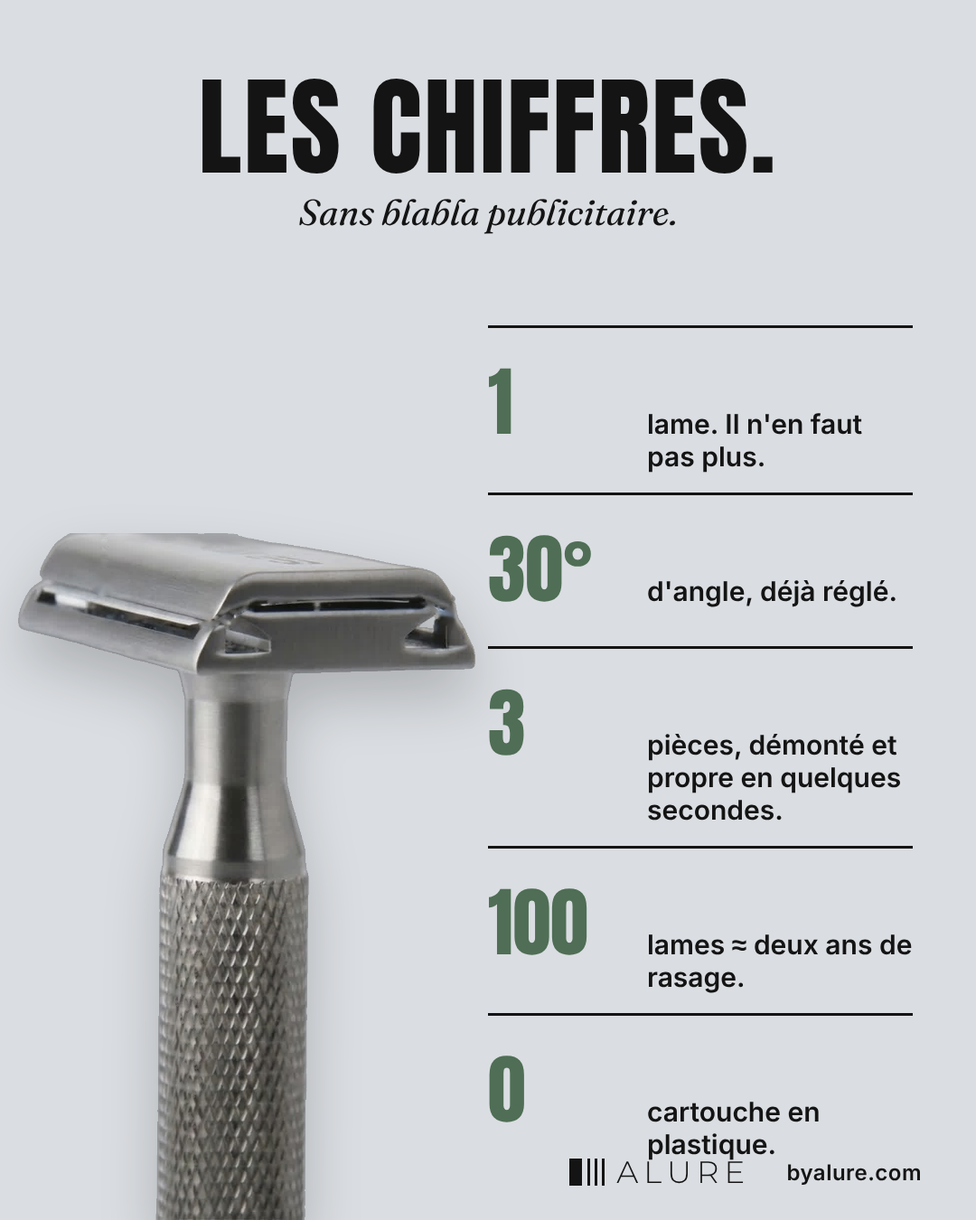
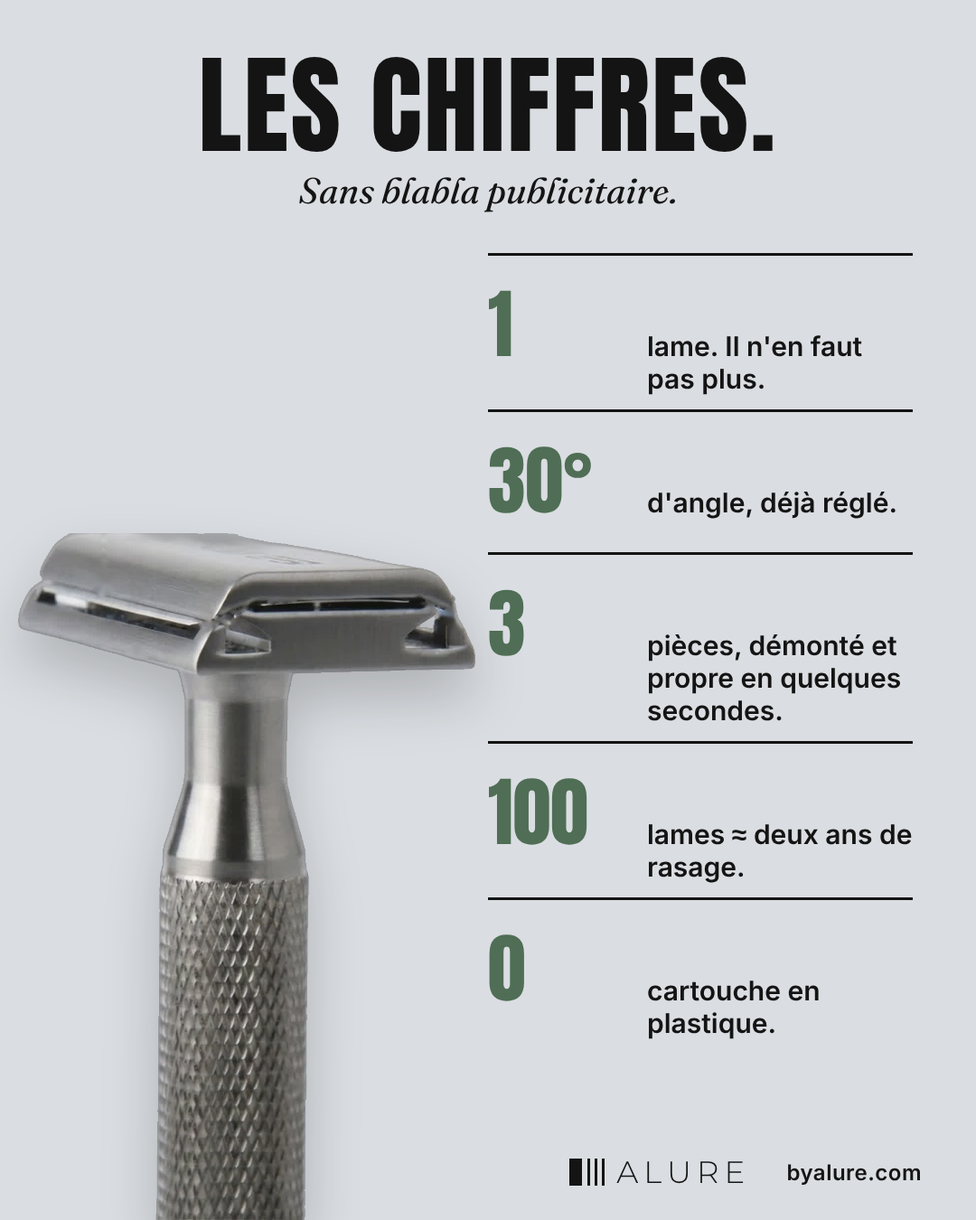
ALURE statics: barber photo, electric razor, vertical razors, cartridge stickers, spacing fixes
Claude-Session: https://claude.ai/code/session_019RHRmcEqu6spiYr2K31vQX

diff --git a/marketing/alure-statics-de/source-fr.html b/marketing/alure-statics-de/source-fr.html
@@ -131,14 +131,14 @@ img{display:block}
 
 <!-- 08 LET'S TALK NUMBERS -->
 <section class="ad" id="a08" style="background:var(--studio)">
-  <div style="text-align:center;padding-top:80px">
+  <div style="text-align:center;padding-top:56px">
     <div style="font-family:Anton;font-size:120px;letter-spacing:.02em;line-height:1">LES CHIFFRES.</div>
     <div class="serif" style="font-size:40px;font-style:italic;margin-top:10px">Sans blabla publicitaire.</div>
   </div>
   <img src="source-assets/razor_silver.png" style="position:absolute;left:20px;bottom:0;height:760px;filter:drop-shadow(0 30px 30px rgba(0,0,0,.2))">
-  <div style="position:absolute;right:70px;top:360px;width:470px" id="nums"></div>
+  <div style="position:absolute;right:70px;top:280px;width:470px" id="nums"></div>
   <div class="foot" style="justify-content:flex-end;gap:40px"><div class="logo"><b></b><i></i><i></i><i></i><span>ALURE</span></div><div class="url">byalure.com</div></div>
-  <script>[["1","lame. Il n'en faut pas plus."],["30°","d'angle, déjà réglé."],["3","pièces, démonté et propre en quelques secondes."],["100","lames ≈ deux ans de rasage."],["0","cartouche en plastique."]].forEach(n=>document.getElementById('nums').insertAdjacentHTML('beforeend',`<div style="border-top:3px solid var(--ink);padding:18px 0 22px;display:flex;gap:26px;align-items:baseline"><div style="font-family:Anton;font-size:84px;min-width:150px;color:var(--sage-d)">${n[0]}</div><div style="font-size:30px;font-weight:600;line-height:1.2">${n[1]}</div></div>`))</script>
+  <script>[["1","lame. Il n'en faut pas plus."],["30°","d'angle, déjà réglé."],["3","pièces, démonté et propre en quelques secondes."],["100","lames ≈ deux ans de rasage."],["0","cartouche en plastique."]].forEach(n=>document.getElementById('nums').insertAdjacentHTML('beforeend',`<div style="border-top:3px solid var(--ink);padding:12px 0 16px;display:flex;gap:26px;align-items:baseline"><div style="font-family:Anton;font-size:84px;min-width:150px;color:var(--sage-d)">${n[0]}</div><div style="font-size:30px;font-weight:600;line-height:1.2">${n[1]}</div></div>`))</script>
 </section>
 
 <!-- 09 SCIENCE ARTICLE -->
@@ -160,7 +160,7 @@ img{display:block}
   <div style="padding:70px 60px 30px;display:flex;justify-content:space-between;align-items:flex-end"><div style="font-size:64px;font-weight:900;letter-spacing:-.02em">Tier list des rasoirs</div><div style="font-size:22px;opacity:.6">(notre avis, assumé)</div></div>
   <div style="margin:0 60px" id="tiers"></div>
   <div class="foot" style="color:#fff"><div class="logo"><b></b><i></i><i></i><i></i><span>ALURE</span></div><div class="url">byalure.com</div></div>
-  <script>[["S","#e57373",'<div style="border-radius:10px;width:110px;height:150px;background:#dadde1;position:relative;overflow:hidden;flex:none"><img src="source-assets/razor_black.png" style="position:absolute;bottom:0;left:50%;transform:translateX(-50%);height:140px"></div> <span>Rasoir de sûreté à lame bloquée</span>'],["A","#f0a868",'<div style=\'width:110px;height:150px;background:#dadde1;border-radius:10px;display:flex;align-items:center;justify-content:center;flex:none\'><img src=\'source-assets/classic_safety.png\' style=\'max-width:95px;max-height:135px\'></div> <span>Rasoir de sûreté classique</span>'],["B","#f3d36b","<span>Rasoir électrique</span>"],["C","#a5d68a",'<div style=\'width:110px;height:150px;background:#dadde1;border-radius:10px;display:flex;align-items:center;justify-content:center;flex:none\'><img src=\'source-assets/five_blade.png\' style=\'max-width:95px;max-height:135px\'></div> <span>Rasoir 5 lames à cartouches</span>'],["D","#7fb3e0",'<div style=\'width:110px;height:150px;background:#dadde1;border-radius:10px;display:flex;align-items:center;justify-content:center;flex:none\'><img src=\'source-assets/disposable.png\' style=\'max-width:95px;max-height:135px\'></div> <span>Rasoir jetable en plastique</span>']].forEach(t=>document.getElementById('tiers').insertAdjacentHTML('beforeend',`<div style="display:flex;min-height:${t[0]=='S'?190:170}px;margin-bottom:8px"><div style="width:170px;background:${t[1]};display:flex;align-items:center;justify-content:center;font-size:84px;font-weight:900;color:#161616">${t[0]}</div><div style="flex:1;background:#262626;display:flex;align-items:center;gap:26px;padding:0 30px;font-size:34px;font-weight:600">${t[2]}</div></div>`))</script>
+  <script>[["S","#e57373",'<div style="border-radius:10px;width:110px;height:150px;background:#dadde1;position:relative;overflow:hidden;flex:none"><img src="source-assets/razor_black.png" style="position:absolute;bottom:0;left:50%;transform:translateX(-50%);height:140px"></div> <span>Rasoir de sûreté à lame bloquée</span>'],["A","#f0a868",'<div style=\'width:110px;height:150px;background:#dadde1;border-radius:10px;display:flex;align-items:center;justify-content:center;flex:none\'><img src=\'source-assets/classic_safety.png\' style=\'max-width:95px;max-height:135px\'></div> <span>Rasoir de sûreté classique</span>'],["B","#f3d36b",'<div style=\'width:110px;height:150px;background:#dadde1;border-radius:10px;display:flex;align-items:center;justify-content:center;flex:none\'><img src=\'source-assets/electric.png\' style=\'max-width:95px;max-height:135px\'></div> <span>Rasoir électrique</span>'],["C","#a5d68a",'<div style=\'width:110px;height:150px;background:#dadde1;border-radius:10px;display:flex;align-items:center;justify-content:center;flex:none\'><img src=\'source-assets/five_blade.png\' style=\'max-width:95px;max-height:135px\'></div> <span>Rasoir 5 lames à cartouches</span>'],["D","#7fb3e0",'<div style=\'width:110px;height:150px;background:#dadde1;border-radius:10px;display:flex;align-items:center;justify-content:center;flex:none\'><img src=\'source-assets/disposable.png\' style=\'max-width:95px;max-height:135px\'></div> <span>Rasoir jetable en plastique</span>']].forEach(t=>document.getElementById('tiers').insertAdjacentHTML('beforeend',`<div style="display:flex;min-height:${t[0]=='S'?190:170}px;margin-bottom:8px"><div style="width:170px;background:${t[1]};display:flex;align-items:center;justify-content:center;font-size:84px;font-weight:900;color:#161616">${t[0]}</div><div style="flex:1;background:#262626;display:flex;align-items:center;gap:26px;padding:0 30px;font-size:34px;font-weight:600">${t[2]}</div></div>`))</script>
 </section>
 
 <!-- 11 VENN DIAGRAM -->
@@ -237,7 +237,7 @@ img{display:block}
     </div>
     <div style="display:flex;gap:40px;margin-top:30px;font-size:22px;opacity:.6;font-weight:600"><span>⬆ Voter</span><span>💬 Commentaires</span><span>↗ Partager</span></div>
   </div>
-  <div style="position:absolute;left:50px;right:50px;bottom:60px;height:330px;background:#dadde1;border-radius:20px;overflow:hidden"><img src="source-assets/razor_black_h.png" style="position:absolute;right:0;top:50%;transform:translateY(-50%);height:300px"></div>
+  <div style="position:absolute;left:50px;right:50px;bottom:60px;height:330px;background:#dadde1;border-radius:20px;overflow:hidden"><img src="source-assets/razor_silver.png" style="position:absolute;left:32%;bottom:0;transform:translateX(-50%);height:310px"><img src="source-assets/razor_black.png" style="position:absolute;left:68%;bottom:0;transform:translateX(-50%);height:310px"></div>
 </section>
 
 <!-- 16 QUIZ -->
@@ -299,19 +299,21 @@ img{display:block}
       <rect x="10" y="10" width="480" height="500" fill="#ffffff"/><rect x="510" y="10" width="480" height="500" fill="#ffffff"/><rect x="10" y="530" width="980" height="540" fill="#DCE6DA"/>
     </g>
     <!-- panel 1: shelf + man -->
-    <rect x="40" y="300" width="420" height="16" fill="#9a7b56"/><rect x="60" y="230" width="70" height="70" fill="#7fb3e0" stroke="#141414" stroke-width="4"/><rect x="150" y="230" width="70" height="70" fill="#7fb3e0" stroke="#141414" stroke-width="4"/><text x="95" y="275" font-size="26" text-anchor="middle" fill="#141414">4x</text><text x="185" y="275" font-size="26" text-anchor="middle" fill="#141414">4x</text>
+    <rect x="40" y="300" width="420" height="16" fill="#9a7b56"/>
     <rect x="70" y="330" width="130" height="50" rx="6" fill="#ffd54f" stroke="#141414" stroke-width="4"/><text x="135" y="366" font-size="34" text-anchor="middle" fill="#C8372D">25,00 €</text>
     <circle cx="350" cy="320" r="60" fill="#f2c9a5" stroke="#141414" stroke-width="5"/><path d="M300 300 Q350 250 400 300" stroke="#999" stroke-width="14" fill="none"/><circle cx="330" cy="320" r="7"/><circle cx="372" cy="320" r="7"/><ellipse cx="352" cy="352" rx="14" ry="18" fill="#141414"/><path d="M290 380 L410 380 L430 500 L270 500 Z" fill="#4F6E55" stroke="#141414" stroke-width="5"/>
     <path d="M60 40 h380 a20 20 0 0 1 20 20 v90 a20 20 0 0 1 -20 20 h-200 l-30 40 l0 -40 h-150 a20 20 0 0 1 -20 -20 v-90 a20 20 0 0 1 20 -20z" fill="#fff" stroke="#141414" stroke-width="5"/><text x="250" y="125" font-size="50" text-anchor="middle" fill="#141414">COMBIEN ?!</text>
     <!-- panel 2: cartridge character -->
     <rect x="660" y="230" width="180" height="120" rx="20" fill="#7fb3e0" stroke="#141414" stroke-width="6"/><g stroke="#141414" stroke-width="5"><line x1="680" y1="255" x2="820" y2="255"/><line x1="680" y1="275" x2="820" y2="275"/><line x1="680" y1="295" x2="820" y2="295"/><line x1="680" y1="315" x2="820" y2="315"/><line x1="680" y1="335" x2="820" y2="335"/></g><circle cx="715" cy="215" r="20" fill="#fff" stroke="#141414" stroke-width="5"/><circle cx="785" cy="215" r="20" fill="#fff" stroke="#141414" stroke-width="5"/><circle cx="720" cy="218" r="8"/><circle cx="790" cy="218" r="8"/><path d="M710 380 Q750 420 790 380" stroke="#141414" stroke-width="6" fill="none"/><rect x="735" y="350" width="30" height="140" fill="#bbb" stroke="#141414" stroke-width="5"/>
-    <path d="M550 40 h400 a20 20 0 0 1 20 20 v100 a20 20 0 0 1 -20 20 h-150 l-30 40 l0 -40 h-220 a20 20 0 0 1 -20 -20 v-100 a20 20 0 0 1 20 -20z" fill="#fff" stroke="#141414" stroke-width="5"/><text x="750" y="105" font-size="44" text-anchor="middle" fill="#141414">À LE MOIS</text><text x="750" y="155" font-size="44" text-anchor="middle" fill="#141414">PROCHAIN ! HÉHÉ.</text>
+    <path d="M550 40 h400 a20 20 0 0 1 20 20 v100 a20 20 0 0 1 -20 20 h-150 l-30 40 l0 -40 h-220 a20 20 0 0 1 -20 -20 v-100 a20 20 0 0 1 20 -20z" fill="#fff" stroke="#141414" stroke-width="5"/><text x="750" y="105" font-size="44" text-anchor="middle" fill="#141414">AU MOIS</text><text x="750" y="155" font-size="44" text-anchor="middle" fill="#141414">PROCHAIN ! HÉHÉ.</text>
     <!-- panel 3 -->
     <circle cx="260" cy="780" r="90" fill="#f2c9a5" stroke="#141414" stroke-width="6"/><path d="M185 750 Q260 670 335 750" stroke="#999" stroke-width="18" fill="none"/><path d="M220 775 q12 -12 24 0" stroke="#141414" stroke-width="6" fill="none"/><path d="M280 775 q12 -12 24 0" stroke="#141414" stroke-width="6" fill="none"/><path d="M225 820 Q262 850 300 820" stroke="#141414" stroke-width="6" fill="none"/><path d="M160 880 L360 880 L390 1060 L130 1060 Z" fill="#4F6E55" stroke="#141414" stroke-width="6"/>
     <path d="M440 620 h420 a20 20 0 0 1 20 20 v90 a20 20 0 0 1 -20 20 h-330 l-50 40 l10 -40 h-50 a20 20 0 0 1 -20 -20 v-90 a20 20 0 0 1 20 -20z" fill="#fff" stroke="#141414" stroke-width="5"/><text x="650" y="705" font-size="54" text-anchor="middle" fill="#141414">NON. MOI J'AI ÇA MAINTENANT.</text>
   </svg>
-  <img src="source-assets/razor_black_h.png" style="position:absolute;right:52px;top:990px;height:190px">
-  <div class="logo" style="position:absolute;right:80px;bottom:80px;font-size:28px"><b></b><i></i><i></i><i></i><span>ALURE</span></div>
+  <img src="source-assets/razor_black.png" style="position:absolute;right:70px;bottom:103px;height:310px">
+  <img src="source-assets/cartridge_pack.png" style="position:absolute;left:96px;top:322px;height:150px;transform:rotate(-4deg);filter:drop-shadow(3px 0 0 #fff) drop-shadow(-3px 0 0 #fff) drop-shadow(0 3px 0 #fff) drop-shadow(0 -3px 0 #fff) drop-shadow(3px 3px 0 #141414)">
+  <img src="source-assets/cartridge_pack.png" style="position:absolute;left:196px;top:322px;height:150px;transform:rotate(3deg);filter:drop-shadow(3px 0 0 #fff) drop-shadow(-3px 0 0 #fff) drop-shadow(0 3px 0 #fff) drop-shadow(0 -3px 0 #fff) drop-shadow(3px 3px 0 #141414)">
+  <div class="logo" style="position:absolute;right:80px;bottom:34px;font-size:28px"><b></b><i></i><i></i><i></i><span>ALURE</span></div>
 </section>
 
 <!-- 20 RECIPES -->
@@ -354,13 +356,12 @@ img{display:block}
 
 <!-- 23 BREAKING NEWS -->
 <section class="ad" id="a23" style="background:#111;color:#fff">
-  <div style="position:absolute;left:0;right:0;top:0;height:860px;background:#1d1d1d"></div><img src="source-assets/razor_silver_h.png" style="position:absolute;right:0;top:180px;height:500px">
-  <div style="position:absolute;left:0;right:0;top:640px;height:220px;background:linear-gradient(0deg,#111,transparent)"></div>
   <div style="position:absolute;left:60px;top:60px;background:var(--red);font-family:Anton;font-size:52px;padding:6px 26px;letter-spacing:.05em">FLASH INFO</div>
-  <div style="position:absolute;left:60px;right:60px;top:820px">
+  <div style="position:absolute;left:60px;right:60px;top:170px">
     <h1 style="font-family:Anton;font-size:96px;line-height:1.02;text-transform:uppercase">Le rasoir de sûreté dont la lame ne bouge pas arrive en France.</h1>
     <p style="font-size:30px;margin-top:28px;opacity:.85">On l'achète une fois, on change juste la lame. Zéro abonnement cartouches.</p>
   </div>
+  <img src="source-assets/razor_silver.png" style="position:absolute;left:50%;bottom:60px;transform:translateX(-50%);height:560px">
   <div style="position:absolute;left:0;right:0;bottom:0;height:80px;background:#ffd54f;color:#111;display:flex;align-items:center;font-weight:800;font-size:30px;white-space:nowrap;overflow:hidden"><span style="background:#111;color:#ffd54f;height:100%;display:flex;align-items:center;padding:0 26px">DIRECT</span><span style="padding-left:26px">+++ 1 lame +++ 30° préréglé +++ 100 lames ≈ 2 ans +++ byalure.com +++</span></div>
 </section>
 
@@ -445,11 +446,11 @@ img{display:block}
 
 <!-- 29 PARTNERSHIP CAROUSEL -->
 <section class="ad" id="a29" style="background:#2b2b2b;color:#fff">
-  <div style="position:absolute;inset:0;background:repeating-linear-gradient(45deg,#333 0 30px,#2b2b2b 30px 60px)"></div>
-  <div style="position:absolute;left:50%;top:200px;transform:translateX(-50%);width:560px;height:560px;border:4px dashed #777;border-radius:30px;display:flex;align-items:center;justify-content:center;text-align:center;color:#aaa;font-size:32px;line-height:1.4">PHOTO PARTENAIRE<br>(barbier, 50+)<br>tient l'ALURE en main</div>
+  <img src="source-assets/barber.jpg" style="position:absolute;inset:0;width:100%;height:100%;object-fit:cover;object-position:50% 25%">
+  <div style="position:absolute;left:0;right:0;bottom:0;height:640px;background:linear-gradient(0deg,rgba(0,0,0,.88),rgba(0,0,0,0))"></div>
   <div style="position:absolute;left:60px;top:80px;font-size:30px;font-weight:600"><span style="background:#fff;color:#141414;padding:6px 16px;border-radius:8px">Partenariat rémunéré avec ALURE</span></div>
   <div style="position:absolute;left:60px;right:60px;bottom:110px">
-    <div style="font-size:46px;font-weight:700;color:#ffd54f">Je suis barbier depuis 30 ans.</div>
+    <div style="font-size:46px;font-weight:700;color:#ffd54f">Je suis barbier.</div>
     <div style="font-family:Anton;font-size:150px;line-height:.95;margin-top:10px">MON TOP 5<br><span style="font-size:70px">pour se raser à la maison</span></div>
   </div>
   <div style="position:absolute;right:60px;top:80px;font-size:30px;font-weight:700">1/6 →</div>
@@ -521,9 +522,9 @@ img{display:block}
 <section class="ad" id="a35" style="background:#fff">
   <div class="hand" style="position:absolute;left:90px;top:90px;font-size:110px;line-height:1;transform:rotate(-3deg)">Je déteste à quel point il est lourd</div>
   <svg style="position:absolute;left:640px;top:330px" width="200" height="200" fill="none" stroke="#141414" stroke-width="6" stroke-linecap="round"><path d="M40 10 C 120 40, 130 110, 90 180"/><path d="M70 160 L90 182 L110 156"/></svg>
-  <img src="source-assets/razor_black_h.png" style="position:absolute;right:0;top:470px;height:460px">
-  <svg style="position:absolute;left:200px;top:930px" width="200" height="160" fill="none" stroke="#141414" stroke-width="6" stroke-linecap="round"><path d="M150 10 C 60 40, 40 90, 60 150"/><path d="M40 128 L60 152 L82 130"/></svg>
-  <div class="hand" style="position:absolute;left:90px;right:80px;top:1080px;font-size:84px;line-height:1;transform:rotate(-2deg)">… mais du coup, je n'ai plus besoin d'appuyer 😅</div>
+  <img src="source-assets/razor_black.png" style="position:absolute;right:60px;bottom:0;height:820px">
+  <svg style="position:absolute;left:470px;top:1180px" width="160" height="70" fill="none" stroke="#141414" stroke-width="6" stroke-linecap="round"><path d="M10 40 C 50 20, 90 30, 140 36"/><path d="M116 18 L142 36 L114 54"/></svg>
+  <div class="hand" style="position:absolute;left:70px;width:500px;top:900px;font-size:80px;line-height:1;transform:rotate(-2deg)">… mais du coup, je n'ai plus besoin d'appuyer 😅</div>
 </section>
 
 </body></html>

diff --git a/marketing/alure-statics-de/source-de.html b/marketing/alure-statics-de/source-de.html
@@ -131,14 +131,14 @@ img{display:block}
 
 <!-- 08 LET'S TALK NUMBERS -->
 <section class="ad" id="a08" style="background:var(--studio)">
-  <div style="text-align:center;padding-top:80px">
+  <div style="text-align:center;padding-top:56px">
     <div style="font-family:Anton;font-size:120px;letter-spacing:.02em;line-height:1">ZAHLEN, BITTE.</div>
     <div class="serif" style="font-size:40px;font-style:italic;margin-top:10px">Ohne Werbesprech.</div>
   </div>
   <img src="source-assets/razor_silver.png" style="position:absolute;left:20px;bottom:0;height:760px;filter:drop-shadow(0 30px 30px rgba(0,0,0,.2))">
-  <div style="position:absolute;right:70px;top:360px;width:470px" id="nums"></div>
+  <div style="position:absolute;right:70px;top:280px;width:470px" id="nums"></div>
   <div class="foot" style="justify-content:flex-end;gap:40px"><div class="logo"><b></b><i></i><i></i><i></i><span>ALURE</span></div><div class="url">byalure.com</div></div>
-  <script>[["1","Klinge. Mehr braucht es nicht."],["30°","Winkel, schon eingestellt."],["3","Teile – in Sekunden zerlegt und sauber."],["100","Klingen ≈ zwei Jahre rasieren."],["0","Plastik-Kartuschen."]].forEach(n=>document.getElementById('nums').insertAdjacentHTML('beforeend',`<div style="border-top:3px solid var(--ink);padding:18px 0 22px;display:flex;gap:26px;align-items:baseline"><div style="font-family:Anton;font-size:84px;min-width:150px;color:var(--sage-d)">${n[0]}</div><div style="font-size:30px;font-weight:600;line-height:1.2">${n[1]}</div></div>`))</script>
+  <script>[["1","Klinge. Mehr braucht es nicht."],["30°","Winkel, schon eingestellt."],["3","Teile – in Sekunden zerlegt und sauber."],["100","Klingen ≈ zwei Jahre rasieren."],["0","Plastik-Kartuschen."]].forEach(n=>document.getElementById('nums').insertAdjacentHTML('beforeend',`<div style="border-top:3px solid var(--ink);padding:12px 0 16px;display:flex;gap:26px;align-items:baseline"><div style="font-family:Anton;font-size:84px;min-width:150px;color:var(--sage-d)">${n[0]}</div><div style="font-size:30px;font-weight:600;line-height:1.2">${n[1]}</div></div>`))</script>
 </section>
 
 <!-- 09 SCIENCE ARTICLE -->
@@ -160,7 +160,7 @@ img{display:block}
   <div style="padding:70px 60px 30px;display:flex;justify-content:space-between;align-items:flex-end"><div style="font-size:64px;font-weight:900;letter-spacing:-.02em">Rasierer-Tierlist</div><div style="font-size:22px;opacity:.6">(unsere ehrliche Meinung)</div></div>
   <div style="margin:0 60px" id="tiers"></div>
   <div class="foot" style="color:#fff"><div class="logo"><b></b><i></i><i></i><i></i><span>ALURE</span></div><div class="url">byalure.com</div></div>
-  <script>[["S","#e57373",'<div style="border-radius:10px;width:110px;height:150px;background:#dadde1;position:relative;overflow:hidden;flex:none"><img src="source-assets/razor_black.png" style="position:absolute;bottom:0;left:50%;transform:translateX(-50%);height:140px"></div> <span>Rasierhobel mit fest eingespannter Klinge</span>'],["A","#f0a868",'<div style=\'width:110px;height:150px;background:#dadde1;border-radius:10px;display:flex;align-items:center;justify-content:center;flex:none\'><img src=\'source-assets/classic_safety.png\' style=\'max-width:95px;max-height:135px\'></div> <span>Klassischer Rasierhobel</span>'],["B","#f3d36b","<span>Elektrorasierer</span>"],["C","#a5d68a",'<div style=\'width:110px;height:150px;background:#dadde1;border-radius:10px;display:flex;align-items:center;justify-content:center;flex:none\'><img src=\'source-assets/five_blade.png\' style=\'max-width:95px;max-height:135px\'></div> <span>5-Klingen-System mit Kartuschen</span>'],["D","#7fb3e0",'<div style=\'width:110px;height:150px;background:#dadde1;border-radius:10px;display:flex;align-items:center;justify-content:center;flex:none\'><img src=\'source-assets/disposable.png\' style=\'max-width:95px;max-height:135px\'></div> <span>Einwegrasierer aus Plastik</span>']].forEach(t=>document.getElementById('tiers').insertAdjacentHTML('beforeend',`<div style="display:flex;min-height:${t[0]=='S'?190:170}px;margin-bottom:8px"><div style="width:170px;background:${t[1]};display:flex;align-items:center;justify-content:center;font-size:84px;font-weight:900;color:#161616">${t[0]}</div><div style="flex:1;background:#262626;display:flex;align-items:center;gap:26px;padding:0 30px;font-size:34px;font-weight:600">${t[2]}</div></div>`))</script>
+  <script>[["S","#e57373",'<div style="border-radius:10px;width:110px;height:150px;background:#dadde1;position:relative;overflow:hidden;flex:none"><img src="source-assets/razor_black.png" style="position:absolute;bottom:0;left:50%;transform:translateX(-50%);height:140px"></div> <span>Rasierhobel mit fest eingespannter Klinge</span>'],["A","#f0a868",'<div style=\'width:110px;height:150px;background:#dadde1;border-radius:10px;display:flex;align-items:center;justify-content:center;flex:none\'><img src=\'source-assets/classic_safety.png\' style=\'max-width:95px;max-height:135px\'></div> <span>Klassischer Rasierhobel</span>'],["B","#f3d36b",'<div style=\'width:110px;height:150px;background:#dadde1;border-radius:10px;display:flex;align-items:center;justify-content:center;flex:none\'><img src=\'source-assets/electric.png\' style=\'max-width:95px;max-height:135px\'></div> <span>Elektrorasierer</span>'],["C","#a5d68a",'<div style=\'width:110px;height:150px;background:#dadde1;border-radius:10px;display:flex;align-items:center;justify-content:center;flex:none\'><img src=\'source-assets/five_blade.png\' style=\'max-width:95px;max-height:135px\'></div> <span>5-Klingen-System mit Kartuschen</span>'],["D","#7fb3e0",'<div style=\'width:110px;height:150px;background:#dadde1;border-radius:10px;display:flex;align-items:center;justify-content:center;flex:none\'><img src=\'source-assets/disposable.png\' style=\'max-width:95px;max-height:135px\'></div> <span>Einwegrasierer aus Plastik</span>']].forEach(t=>document.getElementById('tiers').insertAdjacentHTML('beforeend',`<div style="display:flex;min-height:${t[0]=='S'?190:170}px;margin-bottom:8px"><div style="width:170px;background:${t[1]};display:flex;align-items:center;justify-content:center;font-size:84px;font-weight:900;color:#161616">${t[0]}</div><div style="flex:1;background:#262626;display:flex;align-items:center;gap:26px;padding:0 30px;font-size:34px;font-weight:600">${t[2]}</div></div>`))</script>
 </section>
 
 <!-- 11 VENN DIAGRAM -->
@@ -237,7 +237,7 @@ img{display:block}
     </div>
     <div style="display:flex;gap:40px;margin-top:30px;font-size:22px;opacity:.6;font-weight:600"><span>⬆ Abstimmen</span><span>💬 Kommentare</span><span>↗ Teilen</span></div>
   </div>
-  <div style="position:absolute;left:50px;right:50px;bottom:60px;height:330px;background:#dadde1;border-radius:20px;overflow:hidden"><img src="source-assets/razor_black_h.png" style="position:absolute;right:0;top:50%;transform:translateY(-50%);height:300px"></div>
+  <div style="position:absolute;left:50px;right:50px;bottom:60px;height:330px;background:#dadde1;border-radius:20px;overflow:hidden"><img src="source-assets/razor_silver.png" style="position:absolute;left:32%;bottom:0;transform:translateX(-50%);height:310px"><img src="source-assets/razor_black.png" style="position:absolute;left:68%;bottom:0;transform:translateX(-50%);height:310px"></div>
 </section>
 
 <!-- 16 QUIZ -->
@@ -299,7 +299,7 @@ img{display:block}
       <rect x="10" y="10" width="480" height="500" fill="#ffffff"/><rect x="510" y="10" width="480" height="500" fill="#ffffff"/><rect x="10" y="530" width="980" height="540" fill="#DCE6DA"/>
     </g>
     <!-- panel 1: shelf + man -->
-    <rect x="40" y="300" width="420" height="16" fill="#9a7b56"/><rect x="60" y="230" width="70" height="70" fill="#7fb3e0" stroke="#141414" stroke-width="4"/><rect x="150" y="230" width="70" height="70" fill="#7fb3e0" stroke="#141414" stroke-width="4"/><text x="95" y="275" font-size="26" text-anchor="middle" fill="#141414">4x</text><text x="185" y="275" font-size="26" text-anchor="middle" fill="#141414">4x</text>
+    <rect x="40" y="300" width="420" height="16" fill="#9a7b56"/>
     <rect x="70" y="330" width="130" height="50" rx="6" fill="#ffd54f" stroke="#141414" stroke-width="4"/><text x="135" y="366" font-size="34" text-anchor="middle" fill="#C8372D">25,00 €</text>
     <circle cx="350" cy="320" r="60" fill="#f2c9a5" stroke="#141414" stroke-width="5"/><path d="M300 300 Q350 250 400 300" stroke="#999" stroke-width="14" fill="none"/><circle cx="330" cy="320" r="7"/><circle cx="372" cy="320" r="7"/><ellipse cx="352" cy="352" rx="14" ry="18" fill="#141414"/><path d="M290 380 L410 380 L430 500 L270 500 Z" fill="#4F6E55" stroke="#141414" stroke-width="5"/>
     <path d="M60 40 h380 a20 20 0 0 1 20 20 v90 a20 20 0 0 1 -20 20 h-200 l-30 40 l0 -40 h-150 a20 20 0 0 1 -20 -20 v-90 a20 20 0 0 1 20 -20z" fill="#fff" stroke="#141414" stroke-width="5"/><text x="250" y="125" font-size="50" text-anchor="middle" fill="#141414">WIE VIEL?!</text>
@@ -310,8 +310,10 @@ img{display:block}
     <circle cx="260" cy="780" r="90" fill="#f2c9a5" stroke="#141414" stroke-width="6"/><path d="M185 750 Q260 670 335 750" stroke="#999" stroke-width="18" fill="none"/><path d="M220 775 q12 -12 24 0" stroke="#141414" stroke-width="6" fill="none"/><path d="M280 775 q12 -12 24 0" stroke="#141414" stroke-width="6" fill="none"/><path d="M225 820 Q262 850 300 820" stroke="#141414" stroke-width="6" fill="none"/><path d="M160 880 L360 880 L390 1060 L130 1060 Z" fill="#4F6E55" stroke="#141414" stroke-width="6"/>
     <path d="M440 620 h420 a20 20 0 0 1 20 20 v90 a20 20 0 0 1 -20 20 h-330 l-50 40 l10 -40 h-50 a20 20 0 0 1 -20 -20 v-90 a20 20 0 0 1 20 -20z" fill="#fff" stroke="#141414" stroke-width="5"/><text x="650" y="705" font-size="54" text-anchor="middle" fill="#141414">NÖ. ICH HAB JETZT DAS HIER.</text>
   </svg>
-  <img src="source-assets/razor_black_h.png" style="position:absolute;right:52px;top:990px;height:190px">
-  <div class="logo" style="position:absolute;right:80px;bottom:80px;font-size:28px"><b></b><i></i><i></i><i></i><span>ALURE</span></div>
+  <img src="source-assets/razor_black.png" style="position:absolute;right:70px;bottom:103px;height:310px">
+  <img src="source-assets/cartridge_pack.png" style="position:absolute;left:96px;top:322px;height:150px;transform:rotate(-4deg);filter:drop-shadow(3px 0 0 #fff) drop-shadow(-3px 0 0 #fff) drop-shadow(0 3px 0 #fff) drop-shadow(0 -3px 0 #fff) drop-shadow(3px 3px 0 #141414)">
+  <img src="source-assets/cartridge_pack.png" style="position:absolute;left:196px;top:322px;height:150px;transform:rotate(3deg);filter:drop-shadow(3px 0 0 #fff) drop-shadow(-3px 0 0 #fff) drop-shadow(0 3px 0 #fff) drop-shadow(0 -3px 0 #fff) drop-shadow(3px 3px 0 #141414)">
+  <div class="logo" style="position:absolute;right:80px;bottom:34px;font-size:28px"><b></b><i></i><i></i><i></i><span>ALURE</span></div>
 </section>
 
 <!-- 20 RECIPES -->
@@ -354,13 +356,12 @@ img{display:block}
 
 <!-- 23 BREAKING NEWS -->
 <section class="ad" id="a23" style="background:#111;color:#fff">
-  <div style="position:absolute;left:0;right:0;top:0;height:860px;background:#1d1d1d"></div><img src="source-assets/razor_silver_h.png" style="position:absolute;right:0;top:180px;height:500px">
-  <div style="position:absolute;left:0;right:0;top:640px;height:220px;background:linear-gradient(0deg,#111,transparent)"></div>
   <div style="position:absolute;left:60px;top:60px;background:var(--red);font-family:Anton;font-size:52px;padding:6px 26px;letter-spacing:.05em">EILMELDUNG</div>
-  <div style="position:absolute;left:60px;right:60px;top:820px">
+  <div style="position:absolute;left:60px;right:60px;top:170px">
     <h1 style="font-family:Anton;font-size:96px;line-height:1.02;text-transform:uppercase">Rasierhobel, bei dem die Klinge nicht wackelt, jetzt in Deutschland.</h1>
     <p style="font-size:30px;margin-top:28px;opacity:.85">Einmal kaufen, Standardklingen nachlegen. Kein Kartuschen-Abo.</p>
   </div>
+  <img src="source-assets/razor_silver.png" style="position:absolute;left:50%;bottom:60px;transform:translateX(-50%);height:560px">
   <div style="position:absolute;left:0;right:0;bottom:0;height:80px;background:#ffd54f;color:#111;display:flex;align-items:center;font-weight:800;font-size:30px;white-space:nowrap;overflow:hidden"><span style="background:#111;color:#ffd54f;height:100%;display:flex;align-items:center;padding:0 26px">LIVE</span><span style="padding-left:26px">+++ 1 Klinge +++ 30° voreingestellt +++ 100 Klingen ≈ 2 Jahre +++ byalure.com +++</span></div>
 </section>
 
@@ -445,11 +446,11 @@ img{display:block}
 
 <!-- 29 PARTNERSHIP CAROUSEL -->
 <section class="ad" id="a29" style="background:#2b2b2b;color:#fff">
-  <div style="position:absolute;inset:0;background:repeating-linear-gradient(45deg,#333 0 30px,#2b2b2b 30px 60px)"></div>
-  <div style="position:absolute;left:50%;top:200px;transform:translateX(-50%);width:560px;height:560px;border:4px dashed #777;border-radius:30px;display:flex;align-items:center;justify-content:center;text-align:center;color:#aaa;font-size:32px;line-height:1.4">FOTO PARTNER<br>(Barbier, 50+)<br>hält ALURE in der Hand</div>
+  <img src="source-assets/barber.jpg" style="position:absolute;inset:0;width:100%;height:100%;object-fit:cover;object-position:50% 25%">
+  <div style="position:absolute;left:0;right:0;bottom:0;height:640px;background:linear-gradient(0deg,rgba(0,0,0,.88),rgba(0,0,0,0))"></div>
   <div style="position:absolute;left:60px;top:80px;font-size:30px;font-weight:600"><span style="background:#fff;color:#141414;padding:6px 16px;border-radius:8px">Bezahlte Partnerschaft mit ALURE</span></div>
   <div style="position:absolute;left:60px;right:60px;bottom:110px">
-    <div style="font-size:46px;font-weight:700;color:#ffd54f">Ich bin seit 30 Jahren Barbier.</div>
+    <div style="font-size:46px;font-weight:700;color:#ffd54f">Ich bin Barbier.</div>
     <div style="font-family:Anton;font-size:150px;line-height:.95;margin-top:10px">MEINE TOP 5<br><span style="font-size:70px">für die Rasur zu Hause</span></div>
   </div>
   <div style="position:absolute;right:60px;top:80px;font-size:30px;font-weight:700">1/6 →</div>
@@ -521,9 +522,9 @@ img{display:block}
 <section class="ad" id="a35" style="background:#fff">
   <div class="hand" style="position:absolute;left:90px;top:90px;font-size:110px;line-height:1;transform:rotate(-3deg)">Ich hasse, wie schwer der ist</div>
   <svg style="position:absolute;left:640px;top:330px" width="200" height="200" fill="none" stroke="#141414" stroke-width="6" stroke-linecap="round"><path d="M40 10 C 120 40, 130 110, 90 180"/><path d="M70 160 L90 182 L110 156"/></svg>
-  <img src="source-assets/razor_black_h.png" style="position:absolute;right:0;top:470px;height:460px">
-  <svg style="position:absolute;left:200px;top:930px" width="200" height="160" fill="none" stroke="#141414" stroke-width="6" stroke-linecap="round"><path d="M150 10 C 60 40, 40 90, 60 150"/><path d="M40 128 L60 152 L82 130"/></svg>
-  <div class="hand" style="position:absolute;left:90px;right:80px;top:1080px;font-size:84px;line-height:1;transform:rotate(-2deg)">… aber deshalb muss ich nicht mehr drücken 😅</div>
+  <img src="source-assets/razor_black.png" style="position:absolute;right:60px;bottom:0;height:820px">
+  <svg style="position:absolute;left:470px;top:1180px" width="160" height="70" fill="none" stroke="#141414" stroke-width="6" stroke-linecap="round"><path d="M10 40 C 50 20, 90 30, 140 36"/><path d="M116 18 L142 36 L114 54"/></svg>
+  <div class="hand" style="position:absolute;left:70px;width:500px;top:900px;font-size:80px;line-height:1;transform:rotate(-2deg)">… aber deshalb muss ich nicht mehr drücken 😅</div>
 </section>
 
 </body></html>

diff --git a/marketing/alure-statics-de/README.md b/marketing/alure-statics-de/README.md
@@ -9,4 +9,4 @@
 Prix utilisés : cartouche 3 ou 5 lames 25 € les 4 (6,25 €/pièce), lame DE ALURE 0,25 €, rasoir 49 €, 100 lames 25 €.
 Hypothèse de calcul : 1 cartouche toutes les 2 semaines → env. 162 €/an (2 ans : 335 € avec le manche) contre 12,50 €/an avec ALURE (2 ans : 74 €).
 
-À vérifier avant diffusion : partenaire barbier réel (a29), conversation WhatsApp illustrative (a21).
+À vérifier avant diffusion : mention partenariat seulement avec un vrai barbier partenaire (a29), conversation WhatsApp illustrative (a21).
